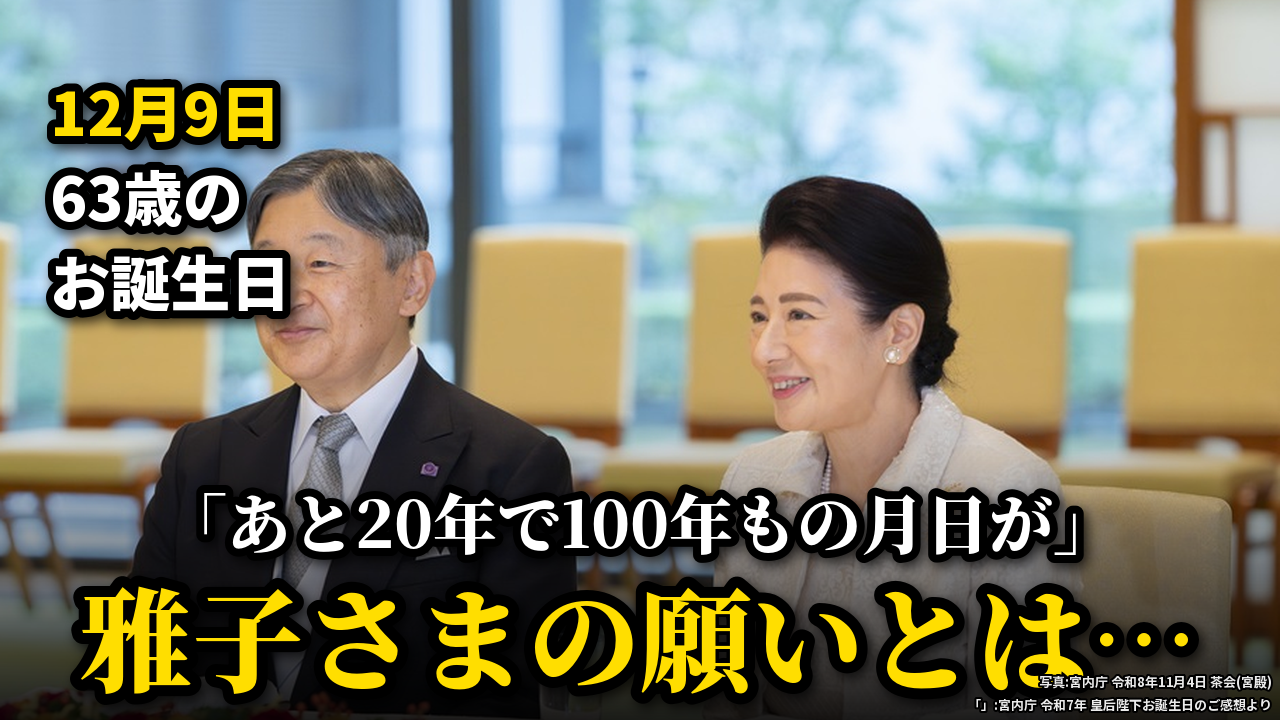
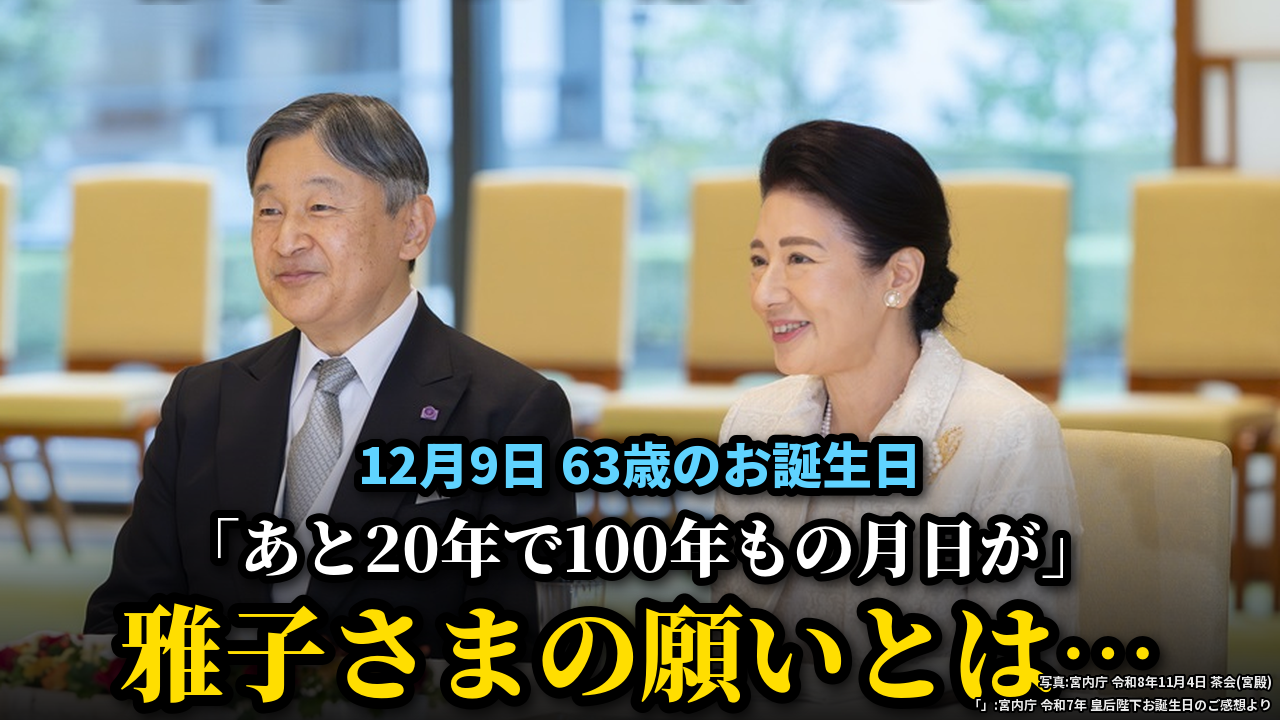
表紙: 3段は3色に、お顔・頭への文字の重なりを機械で検査(決まりに追加)
Claude-Session: https://claude.ai/code/session_01BJaPidxzmnRS1K4CmysiYX

diff --git a/projects/PLAN-20261127-DRAMA/thumb_v3/make_v3.py b/projects/PLAN-20261127-DRAMA/thumb_v3/make_v3.py
@@ -15,6 +15,28 @@ P = {  # 台帳の写真と撮影情報
 QUOTE = "あと20年で100年もの月日が"
 assert QUOTE in open("/home/user/-/projects/PLAN-20261127-DRAMA/raw/empress2025.txt").read()
 YEL = (255, 222, 0); BLK = (0, 0, 0); WHITE = (255, 255, 255)
+BLUE = (95, 211, 255); PINK = (255, 126, 182)   # 3段の時は3色(荒木指示 2026-11-28)。赤は使わない
+# お顔・頭の範囲(書き出し後の座標。目視で登録し、余白30pxを足して検査する)
+HEADS = {
+ "L1": [(265, 60, 450, 305), (715, 90, 885, 285), (1120, 20, 1280, 245)],
+ "L2": [(265, 224, 475, 439), (985, 229, 1195, 424)],
+ "L3": [(235, 79, 435, 309), (735, 109, 955, 359)],
+ "S":  [],  # ショートは写真の上に文字を置かない(帯の中だけ)
+}
+MARGIN = 30
+BOXES = []
+def T(im, xy, s, font, stroke=8, **kw):
+    bb = text(im, xy, s, font, stroke=stroke, **kw)
+    if bb: BOXES.append((s, (bb[0] - stroke, bb[1] - stroke, bb[2] + stroke, bb[3] + stroke)))
+    return bb
+def check(name):
+    bad = []
+    for s, (a, b, c, d) in BOXES:
+        for (x0, y0, x1, y1) in HEADS[name]:
+            if a < x1 + MARGIN and c > x0 - MARGIN and b < y1 + MARGIN and d > y0 - MARGIN: bad.append((s, (x0, y0, x1, y1)))
+    BOXES.clear()
+    assert not bad, f"{name}: 文字がお顔・頭に掛かる {bad}"
+    print(name, "お顔・頭への重なり: なし")
 SRCQ = "「」:宮内庁 令和7年 皇后陛下お誕生日のご感想より"
 
 def photo(key, box, size):  # box = 元写真の切り出し範囲(人物以外を外す)
@@ -31,45 +53,43 @@ def L1():
     im.paste(photo("aomori", (180, 0, 940, 560), (640, 720)), (640, 0))
     ImageDraw.Draw(im).line((640, 0, 640, 720), fill=WHITE, width=4)
     vgrad(im, 380, 720, color=(0, 0, 0), a1=235)
-    text(im, (640, 478), "「" + QUOTE + "」", fit("「" + QUOTE + "」", SERIF, 70, 1220), fill=WHITE, stroke=8, stroke_fill=BLK)
-    text(im, (640, 600), "戦後80年の想い", F(SERIF, 140), fill=YEL, stroke=12, stroke_fill=BLK)
+    T(im, (640, 478), "「" + QUOTE + "」", fit("「" + QUOTE + "」", SERIF, 70, 1220), fill=WHITE, stroke=8, stroke_fill=BLK)
+    T(im, (640, 600), "戦後80年の想い", F(SERIF, 140), fill=YEL, stroke=12, stroke_fill=BLK)
     credit(im, (1272, 714), ["写真:宮内庁 " + P["takkyu"][1] + "/" + P["aomori"][1], SRCQ], 13)
-    return im
+    check("L1"); return im
 
 # ---- 長尺② 場面+3段の極太ゴシック型: 一場面を全面、上に黄色の「」、下に白と黄の2行 ----
 def L2():
     im = Image.new("RGBA", (1280, 720), (0, 0, 0, 255))
-    im.paste(photo("shokuju", (0, 20, 920, 444), (1280, 590)), (0, 130))
+    im.paste(photo("shokuju", (0, 60, 920, 484), (1280, 590)), (0, 130))
     vgrad(im, 430, 720, color=(0, 0, 0), a1=235)
-    text(im, (640, 66), "「" + QUOTE + "」", fit("「" + QUOTE + "」", SANS, 86, 1230), fill=YEL, stroke=10, stroke_fill=BLK)
-    text(im, (640, 548), "63歳 雅子さまのお誕生日", fit("63歳 雅子さまのお誕生日", SANS, 80, 1200), fill=WHITE, stroke=10, stroke_fill=BLK)
-    text(im, (640, 650), "戦後80年に綴られた想いとは…", fit("戦後80年に綴られた想いとは…", SANS, 84, 1230), fill=YEL, stroke=10, stroke_fill=BLK)
+    T(im, (640, 66), "「" + QUOTE + "」", fit("「" + QUOTE + "」", SANS, 86, 1230), fill=YEL, stroke=10, stroke_fill=BLK)
+    T(im, (640, 548), "63歳 雅子さまのお誕生日", fit("63歳 雅子さまのお誕生日", SANS, 80, 1200), fill=BLUE, stroke=10, stroke_fill=BLK)
+    T(im, (640, 650), "戦後80年に綴られた想いとは…", fit("戦後80年に綴られた想いとは…", SANS, 84, 1230), fill=PINK, stroke=10, stroke_fill=BLK)
     credit(im, (1272, 138), ["写真:宮内庁 " + P["shokuju"][1], SRCQ], 13, anchor="ra")
-    return im
+    check("L2"); return im
 
 # ---- 長尺③ 一場面の大写し+短い一言: 両陛下を大きく、文字は右下に寄せて短く ----
 def L3():
-    im = photo("chakai", (90, 40, 1000, 560), (1280, 720))
+    im = photo("chakai", (90, 80, 1000, 600), (1280, 720))
     vgrad(im, 400, 720, color=(0, 0, 0), a1=225)
-    text(im, (50, 110), "12月9日", F(SANS, 60), fill=YEL, stroke=8, stroke_fill=BLK, anchor="lm")
-    text(im, (50, 195), "63歳の", F(SANS, 60), fill=WHITE, stroke=8, stroke_fill=BLK, anchor="lm")
-    text(im, (50, 280), "お誕生日", F(SANS, 60), fill=WHITE, stroke=8, stroke_fill=BLK, anchor="lm")
-    text(im, (640, 520), "「" + QUOTE + "」", fit("「" + QUOTE + "」", SERIF, 64, 1100), fill=WHITE, stroke=8, stroke_fill=BLK)
-    text(im, (640, 635), "雅子さまの願いとは…", F(SERIF, 112), fill=YEL, stroke=11, stroke_fill=BLK)
+    T(im, (640, 462), "12月9日 63歳のお誕生日", F(SANS, 50), fill=BLUE, stroke=8, stroke_fill=BLK)
+    T(im, (640, 545), "「" + QUOTE + "」", fit("「" + QUOTE + "」", SERIF, 62, 1100), fill=WHITE, stroke=8, stroke_fill=BLK)
+    T(im, (640, 648), "雅子さまの願いとは…", F(SERIF, 104), fill=YEL, stroke=11, stroke_fill=BLK)
     credit(im, (1272, 714), ["写真:宮内庁 " + P["chakai"][1], SRCQ], 13)
-    return im
+    check("L3"); return im
 
 # ---- ショート: 黒の帯の型(上に白の3行、中央に一場面、下に黄色の極太2行) ----
 def S():
     im = Image.new("RGBA", (1080, 1920), (0, 0, 0, 255))
     im.paste(photo("tobe", (380, 0, 990, 666), (1080, 1180)), (0, 450))
-    text(im, (540, 120), "63歳を迎える雅子さま", fit("63歳を迎える雅子さま", SANS, 96, 1020), fill=WHITE, stroke=0, shadow=False)
-    text(im, (540, 255), "「あと20年で", F(SANS, 112), fill=YEL, stroke=0, shadow=False)
-    text(im, (540, 380), "100年もの月日が」", fit("100年もの月日が」", SANS, 112, 1040), fill=YEL, stroke=0, shadow=False)
-    text(im, (540, 1700), "戦後80年の", F(SANS, 140), fill=YEL, stroke=0, shadow=False)
-    text(im, (540, 1840), "想いとは…", F(SANS, 130), fill=WHITE, stroke=0, shadow=False)
+    T(im, (540, 120), "63歳を迎える雅子さま", fit("63歳を迎える雅子さま", SANS, 96, 1020), fill=WHITE, stroke=0, shadow=False)
+    T(im, (540, 255), "「あと20年で", F(SANS, 112), fill=YEL, stroke=0, shadow=False)
+    T(im, (540, 380), "100年もの月日が」", fit("100年もの月日が」", SANS, 112, 1040), fill=YEL, stroke=0, shadow=False)
+    T(im, (540, 1700), "戦後80年の", F(SANS, 140), fill=YEL, stroke=0, shadow=False)
+    T(im, (540, 1840), "想いとは…", F(SANS, 130), fill=WHITE, stroke=0, shadow=False)
     credit(im, (1064, 1620), ["写真:宮内庁 " + P["tobe"][1], SRCQ], 22)
-    return im
+    BOXES.clear(); return im
 
 for n, f in [("long_1_mincho", L1), ("long_2_scene3dan", L2), ("long_3_closeup", L3), ("short_blackband", S)]:
     f().convert("RGB").save(n + ".png"); print(n)

diff --git a/docs/production_rules.md b/docs/production_rules.md
@@ -327,6 +327,7 @@
 - ナレーション中は、BGMを十分に下げる（目安：ナレーションより18〜24dB低く）
 
 **表紙の型（荒木採用 2026-11-27・案A「写真全面」。KB-20261127-02 以降の長尺とショート。見本 projects/PLAN-20261127-DRAMA/thumb_sample/adopted_long_pink.png・adopted_short_pink.png、作り方 make_sample_v4.py の long_A/short_A）：** **黒の帯は使わない**。写真で画面全体を埋める（長尺は写真2枚をすき間なく横に並べる、ショートは縦の写真1枚を全面に）。文字が読めるよう上下だけ写真を暗くするグラデーションをかける。上段＝**黄色の極太**に黒の縁取りで「」付きの一言（宮内庁の原文の一字一句のみ）。下段1行目＝**白の極太**に黒の縁取りで状況。下段2行目＝**ピンクの角丸の帯（#EC4891 前後）に白の極太**で結末を伏せる一言（「…とは…」）。**赤は使わない**（ピンクの帯に変更）。写真の撮影情報と「」の出典を小さく右下に。写真は1〜3人で「受け継ぐ」「つながる」関係、目線が下がっていない穏やかな表情。怒り・汗マーク、?!、矢印、赤丸、吹き出し、作られた台詞、対立の構図は使わない。**文字はお顔・頭に掛けない（体に掛かるのは可。荒木指示 2026-11-27）。** **菊の御紋（皇室の紋章）は使わない**（公式の発信と誤解されるため）。
+**表紙の文字の色と、お顔・頭の保護（荒木指示 2026-11-28・長尺。KB-20261128 以降）：** ①長尺の表紙の文字が3段のときは、**段ごとに色を変えて3色にする**（例: 黄・水色・ピンク／水色・白・黄。赤は使わない）。2段のときは2色。②**文字はお顔・頭に絶対に掛けない。** 表紙を作るたびに、お顔・頭の範囲を書き出し後の座標で登録し、すべての文字の範囲（縁取りを含む）が、その範囲から30px以上離れていることを機械で検査する。1つでも重なれば不合格とし、写真の位置か文字の位置を変えて作り直す（作り方の見本 projects/PLAN-20261127-DRAMA/thumb_v3/make_v3.py の HEADS と check）。登録した枠は画像に重ねて目視でも確かめる。
 **表紙画像（旧型・KB-20261127-01 まで）：** 実在人物の写真1〜2人、短い疑問文を大きな文字で。濃紺#16243A／金#D8BC72／白#FFFFFF。赤は使わない
 **書き出し：** MP4／H.264／AAC
 
